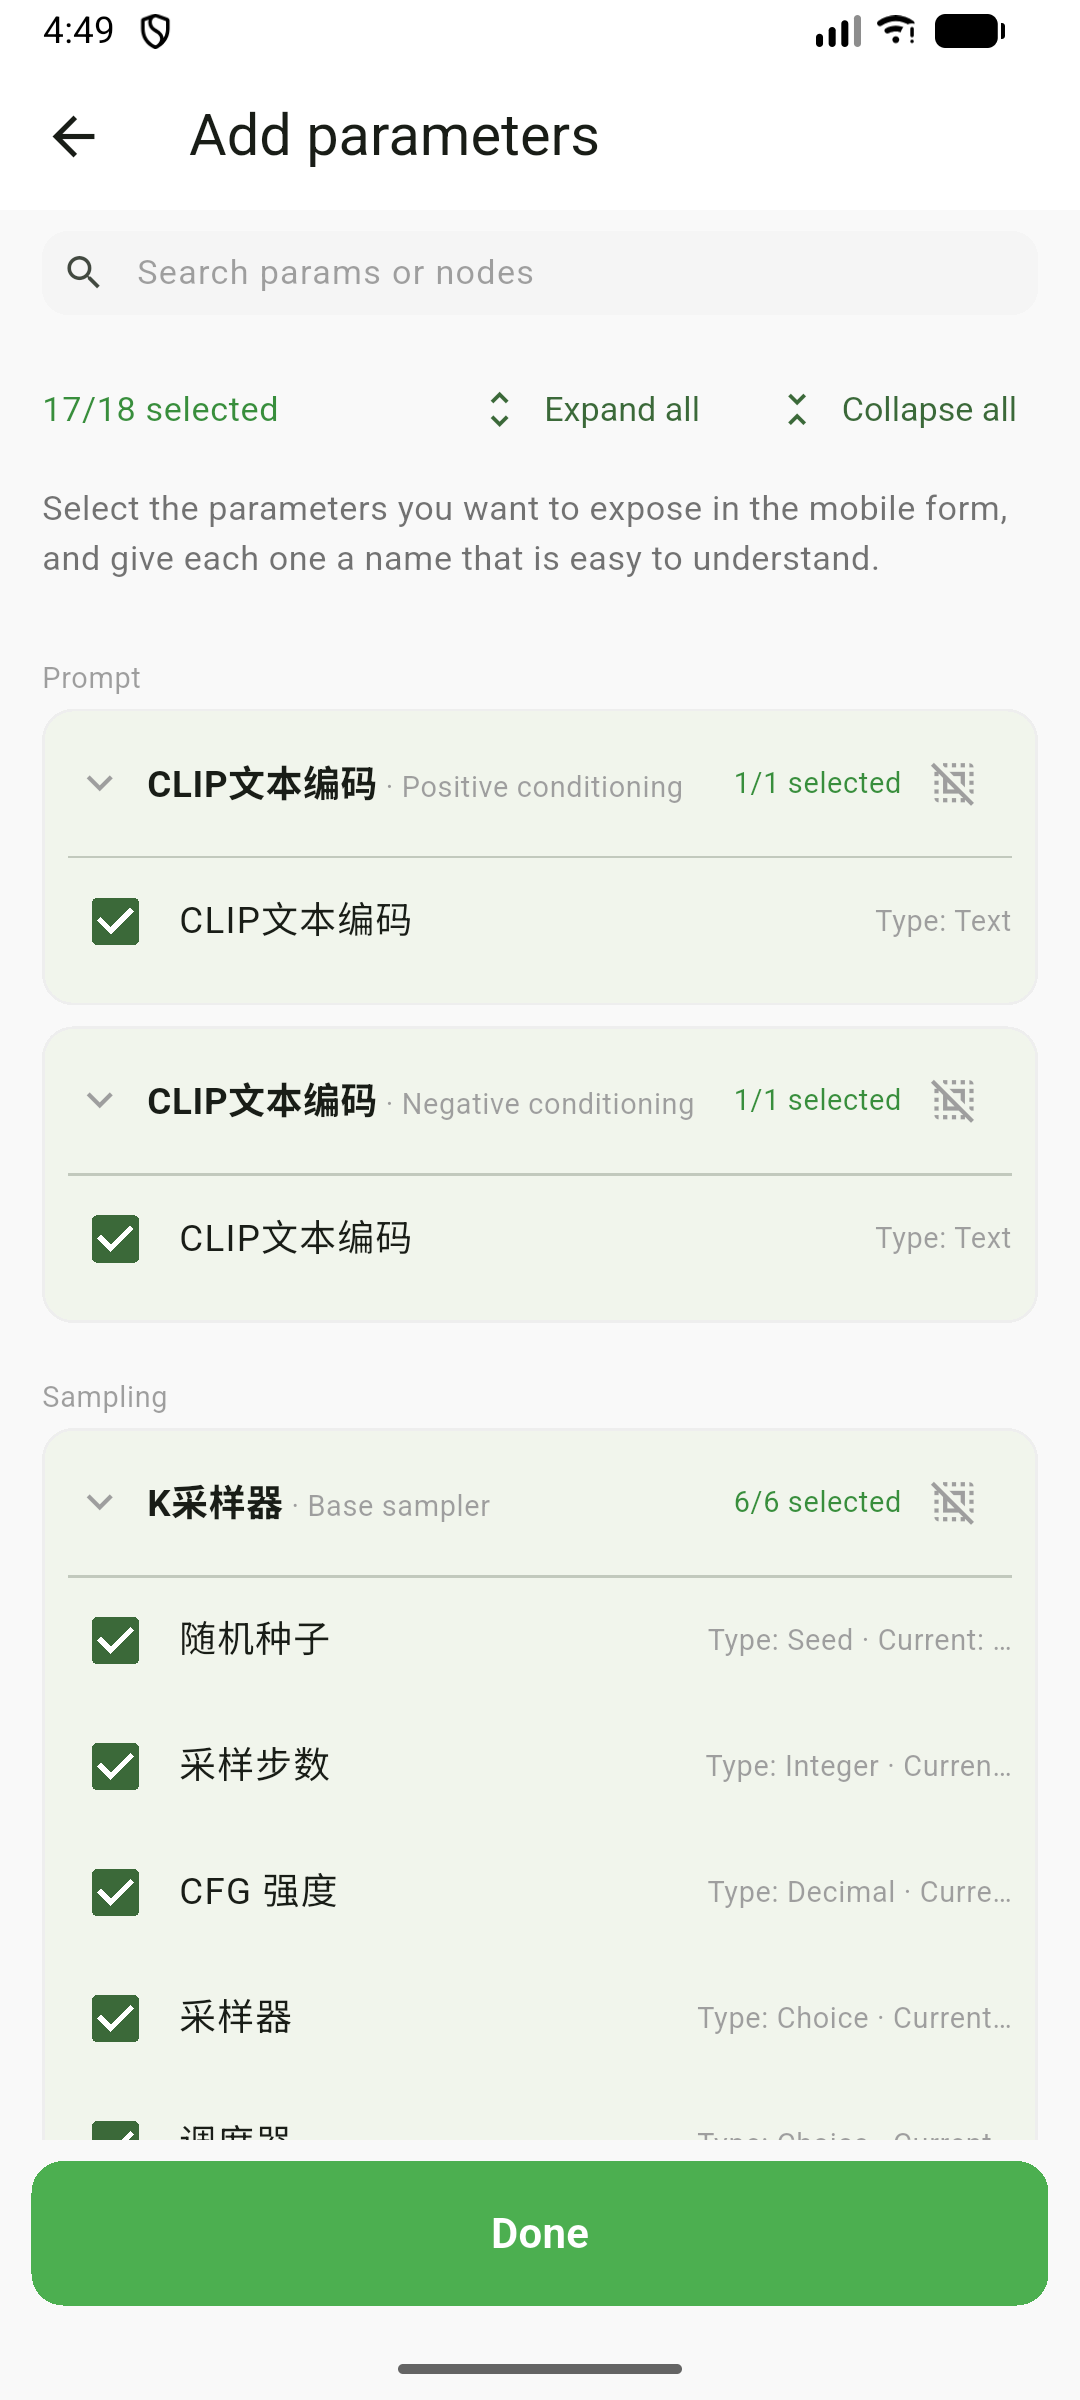
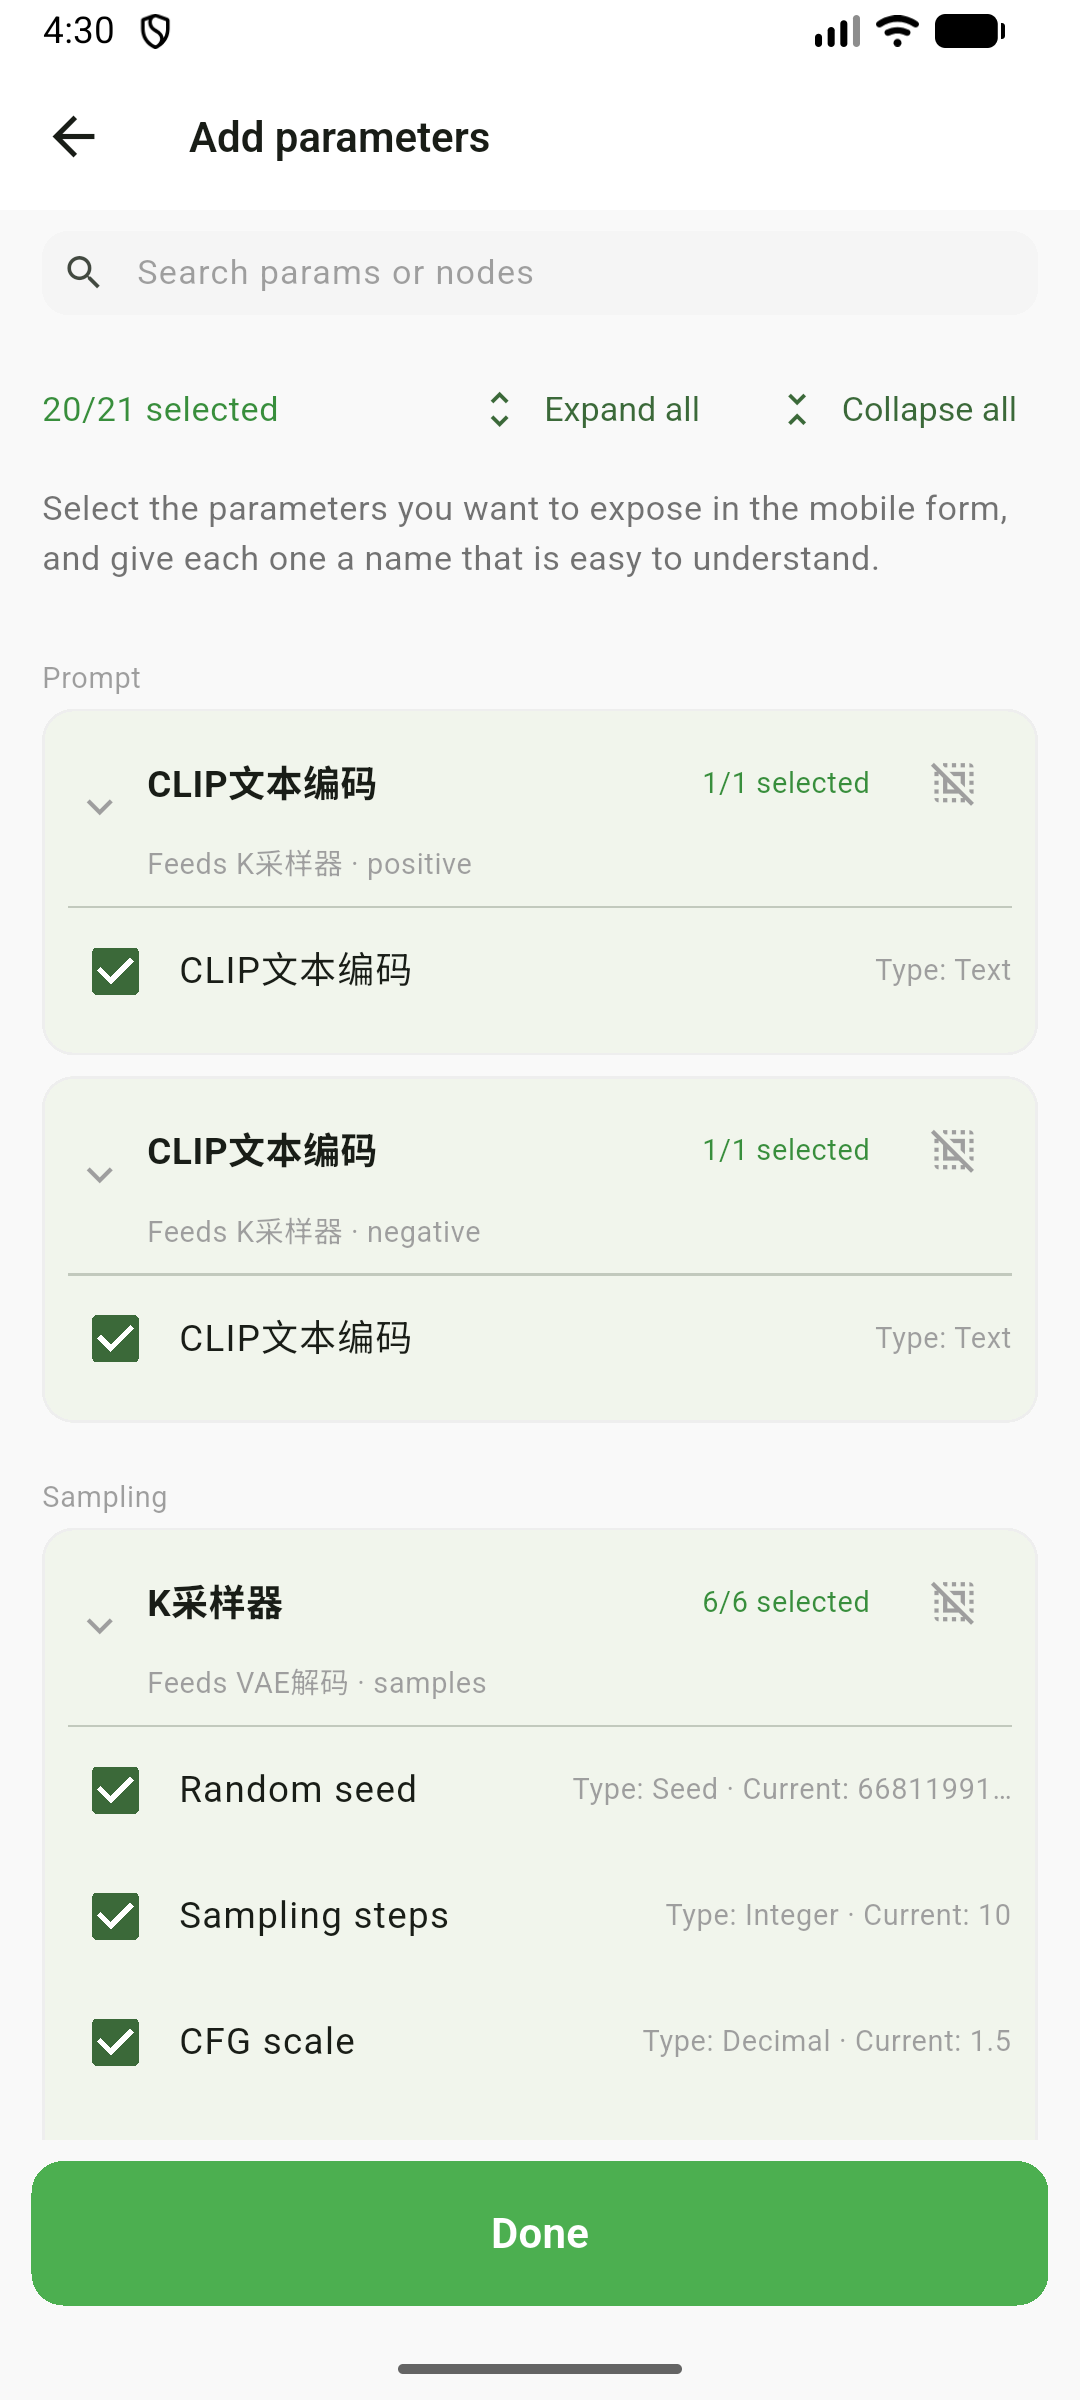
docs: README 同步节点位置说明，更新配置页截图

diff --git a/README_EN.md b/README_EN.md
@@ -266,7 +266,7 @@ Pull node parameters out of the workflow and turn them into a phone form. Open i
 
 **Two layers, each doing one job**
 
-- **The main view only shows what's already in your form**: a header line "17 of 18 in your form", then a flat list — one row per parameter (alias + type and current value), with an × to remove it from the form. One screen, check it, save. Renaming or removing only changes the phone form, never the workflow itself.
+- **The main view only shows what's already in your form**: a header line "17 of 18 in your form", then a flat list — one row per parameter (alias + which node it belongs to and its current value), with an × to remove it from the form. One screen, check it, save. Renaming or removing only changes the phone form, never the workflow itself.
 - **"Add parameters" holds everything**: every parameter lives in this layer, **grouped by purpose** (Prompt / Sampling / Size / Model and weights / Fine control / Other nodes), with per-node collapsible cards. Search, bulk expand/collapse and per-node select-all all live here.
 
 **What it does**
@@ -276,7 +276,7 @@ Pull node parameters out of the workflow and turn them into a phone form. Open i
 3. Skips **link references** (values shaped like `["nodeId", 0]`) — those aren't yours to fill in.
 4. Selected parameters go to the main view, the rest stay in "Add parameters" — **coverage is never narrowed away**: for nodes the rule table doesn't know, every fillable parameter is still listed (that's what covers community nodes and `LoadImage`'s upload box).
 
-**Same-name nodes, told apart by wiring**: when a workflow has two `CLIPTextEncode` nodes (positive and negative prompts), the card header in "Add parameters" carries a hint — the one wired to the sampler's `positive` slot says "Positive conditioning", the `negative` one says "Negative conditioning"; model / LoRA loaders show **which asset they load** (e.g. `add_detail`). All of it is read from the workflow's own links and parameter values — the app doesn't guess.
+**Same-name nodes, told apart by wiring**: when a workflow has two `CLIPTextEncode` nodes (positive and negative prompts), each card in "Add parameters" carries a second line saying **which node's which input it feeds** (e.g. `Feeds KSampler · positive`); model / LoRA loaders show **which asset they load** (e.g. `add_detail`). The node name is ComfyUI's own node title and the input name is the workflow's own parameter key — **both are shown as-is, never translated**; when a node feeds several places and there's no single clear answer, the line is simply omitted rather than guessed.
 
 **What's covered**: the rule table is grouped by *purpose*, not by class name (the same feature has different class names on different machines):
 
@@ -317,7 +317,7 @@ Pull node parameters out of the workflow and turn them into a phone form. Open i
   <img src="docs/screenshots/en/04-config-picker.png" width="45%" />
 </p>
 
-<p align="center"><i>Left: the main view holds only what's in your form, × removes a row　Right: "Add parameters" groups everything by purpose; same-name nodes are told apart by wiring</i></p>
+<p align="center"><i>Left: the main view holds only what's in your form, × removes a row　Right: "Add parameters" groups everything by purpose; same-name nodes say what they feed</i></p>
 
 > Saving the config takes you to the run page; the gear icon in the run page's top-right brings you back to the config panel. The two replace each other rather than stacking up routes.
 
@@ -634,7 +634,7 @@ lib/
 ├── services/
 │   ├── workflow_api_converter # UI→API conversion script and result validation (pure, unit-testable)
 │   ├── workflow_node_parser   # Node recognition rule table + param type / purpose category (pure, unit-testable)
-│   ├── node_role              # Roles for same-named nodes (reads links and values; pure)
+│   ├── node_role              # Where a node sits in the graph (reads links and values; pure)
 │   ├── object_info_service    # /object_info specs: options, min/max/step, control shape
 │   ├── submit_check           # Pre-submit server-side block (missing node / missing option)
 │   ├── workflow_api_converter # UI→API conversion script and result validation (pure, unit-testable)

diff --git a/README.md b/README.md
@@ -266,7 +266,7 @@ flowchart LR
 
 **分两层，各干一件事**
 
-- **主视图只放你已经放进表单的参数**：顶部一行「已放进表单 N 项（共 M 项）」，下面是扁平的参数列表——一行一项：别名 + 类型与当前值，行尾的 × 把它移出表单。一眼看完，检查完就保存。改名或移出只影响手机上的表单，不动工作流本身。
+- **主视图只放你已经放进表单的参数**：顶部一行「已放进表单 N 项（共 M 项）」，下面是扁平的参数列表——一行一项：别名 + 属于哪个节点与当前值，行尾的 × 把它移出表单。一眼看完，检查完就保存。改名或移出只影响手机上的表单，不动工作流本身。
 - **「添加参数」进全量列表**：所有参数一个不少地收在这一层，按**用途分段**（提示词 / 采样 / 画面尺寸 / 模型与权重 / 精细控制 / 其余节点），段内按节点分组、可折叠。搜索、批量展开折叠、节点内全选都住在这层。
 
 **它做了什么**
@@ -276,7 +276,7 @@ flowchart LR
 3. 跳过**连线引用**（形如 `["节点id", 0]` 的值）——那不是给你填的。
 4. 已选中的进主视图，其余留在「添加参数」页——**收录范围不裁剪**，没被规则收录的节点，它所有能填的参数也会列出来（社区自定义节点、`LoadImage` 的上传框都靠这条兜底覆盖）。
 
-**同名节点，靠连线分清谁是谁**：工作流里有两个 `CLIPTextEncode`（正向、负向提示词）时，添加参数页的卡片头会附一句说明——连到采样器 `positive` 槽的标「正向条件」、`negative` 槽的标「负向条件」；模型 / LoRA 加载类直接显示**装的是哪个资源**（如 `add_detail`）。这些信息全部读自工作流自身的连线与参数值，App 不猜。
+**同名节点，靠连线分清谁是谁**：工作流里有两个 `CLIPTextEncode`（正向、负向提示词）时，添加参数页的卡片下方会多一行说明，写明它**连到哪个节点的哪个输入**（如 `连到 K采样器 · positive`）；模型 / LoRA 加载类直接显示**装的是哪个资源**（如 `add_detail`）。节点名用的是 ComfyUI 自己的节点标题、输入名用的是工作流里的参数名，**两个都只读不译**；一个节点连去好几处又说不清是哪一路时，这行就不显示，不硬猜。
 
 **识别范围**：规则表按「用途」分组，而不是罗列类名（同一个功能在不同机器上的类名不一样）：
 
@@ -317,7 +317,7 @@ flowchart LR
   <img src="docs/screenshots/zh/04-config-picker.png" width="45%" />
 </p>
 
-<p align="center"><i>左：主视图只放已放进表单的参数，行尾可移出　右：「添加参数」页全量按用途分段，同名节点靠连线角色区分</i></p>
+<p align="center"><i>左：主视图只放已放进表单的参数，行尾可移出　右：「添加参数」页全量按用途分段，同名节点靠连线说清连到谁</i></p>
 
 > 配置保存后自动进入运行页；运行页右上角齿轮可随时回到配置面板，两者互相替换、不堆叠页面。
 
@@ -634,7 +634,7 @@ lib/
 ├── services/
 │   ├── workflow_api_converter # UI→API 转换的脚本与结果校验（纯函数，可单测）
 │   ├── workflow_node_parser   # 节点识别规则表 + 参数类型/用途分类判定（纯函数，可单测）
-│   ├── node_role              # 同名节点的角色推断（读连线与参数值，纯函数）
+│   ├── node_role              # 同名节点的位置说明（读连线与参数值，纯函数）
 │   ├── object_info_service    # /object_info 节点说明书：选项、min/max/step、控件形态
 │   ├── submit_check           # 提交前的服务器侧拦截（缺节点 / 缺选项）
 │   ├── workflow_api_converter # UI→API 转换的脚本与结果校验（纯函数，可单测）
